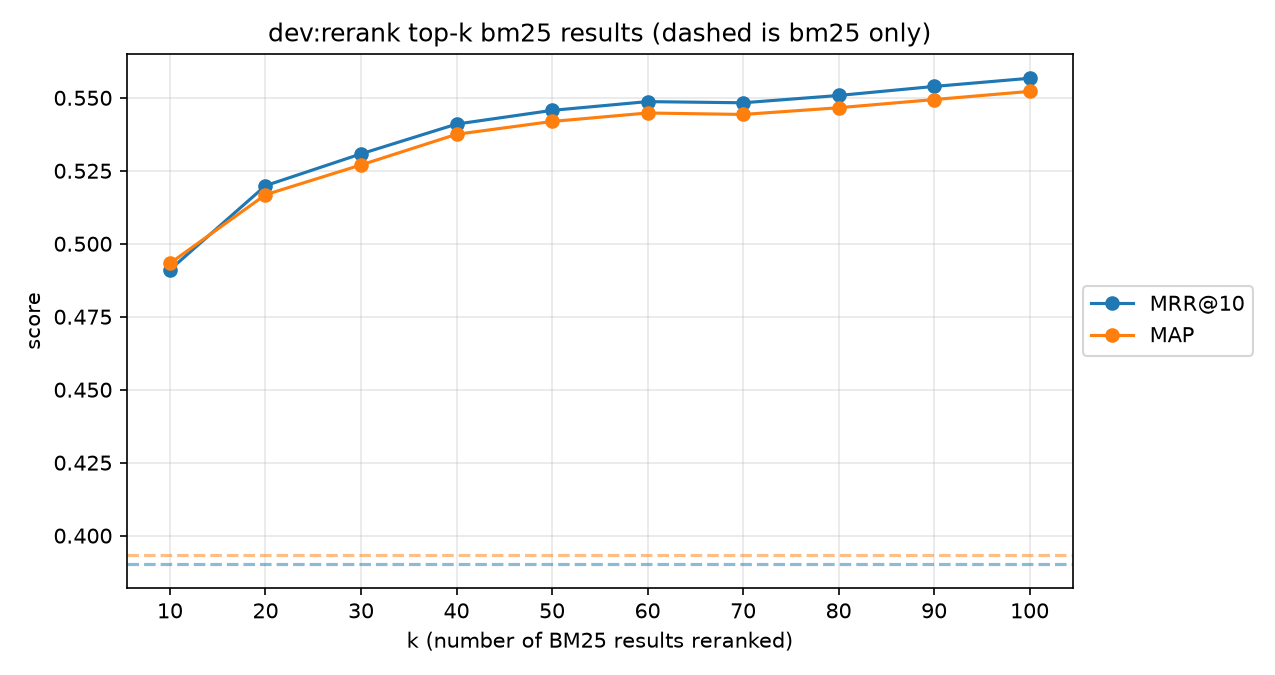
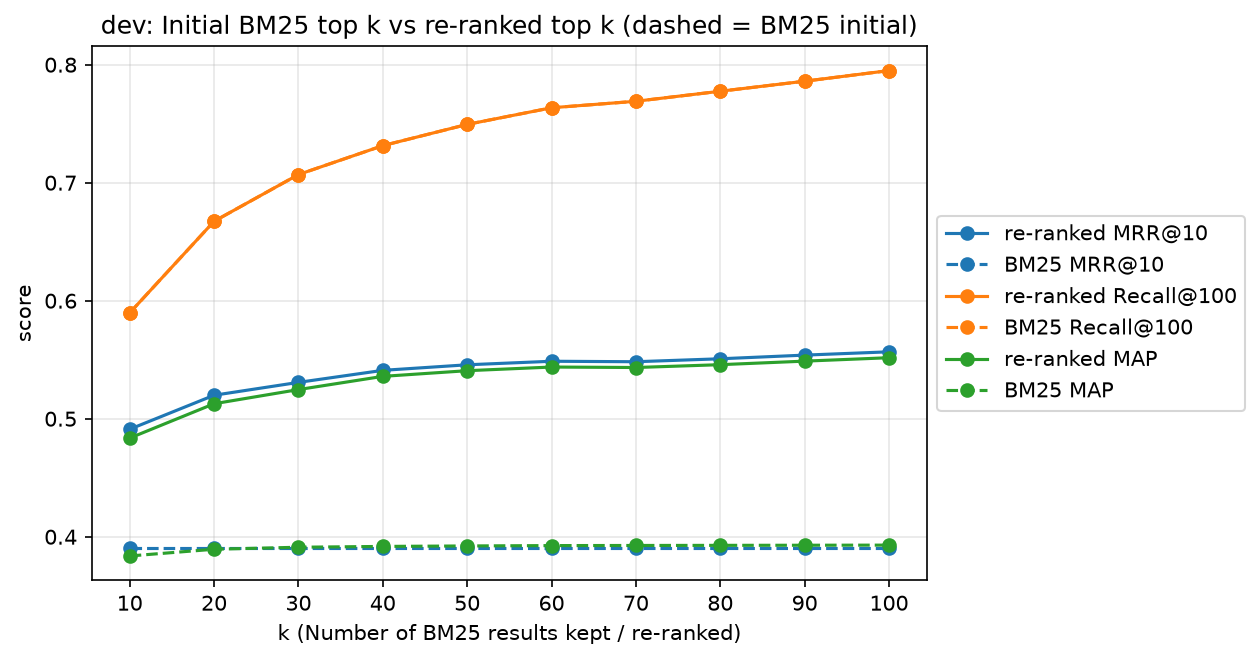
plot eval change

diff --git a/Eval/ploteval.py b/Eval/ploteval.py
@@ -1,14 +1,25 @@
-import subprocess,os,matplotlib.pyplot as plt
+import subprocess, os
+import matplotlib.pyplot as plt
 
 TREC_EVAL = "../trec_eval/trec_eval"
 
-def trecfairy(qrels,run,flags):
-    res=subprocess.run([TREC_EVAL]+flags+[qrels,run],capture_output=True,text=True)
+def trecfairy(qrels, run, flags): #running the trec eval with the flags
+    res = subprocess.run([TREC_EVAL] + flags + [qrels, run], capture_output=True, text=True)
     if not res.stdout.strip():
-        print("eval failed on this run:",run," because ",flags)
+        print("eval failed on this run:", run, " because ", flags)
         print(res.stderr)
         exit(1)
-    return float(res.stdout.split()[-1])
+    return float(res.stdout.split()[-1]) #change to float
+
+def truncate(source, k, destination):
+    count = {} #dictionary from qid to how many lines from that query
+    with open(source) as ref, open(destination, "w") as g:
+        for line in ref: #read 
+            qid = line.split()[0]
+            count[qid] = count.get(qid, 0) + 1
+            if count[qid] <= k:
+                g.write(line)
+    return destination
 
 QRELS = {
     "dl19": "Data/qrels.eval.one.tsv",
@@ -17,40 +28,46 @@ QRELS = {
 }
 
 GRADED = {
-    "MRR@10":   ["-l", "2", "-M", "10", "-m", "recip_rank"],
-    "NDCG@10":  ["-m", "ndcg_cut.10"],
-    "NDCG@100": ["-m", "ndcg_cut.100"],
-    "MAP":      ["-l", "2", "-m", "map"],
+    "MRR@10":     ["-l", "2", "-M", "10", "-m", "recip_rank"],
+    "Recall@100": ["-l", "2", "-m", "recall.100"],
+    "NDCG@10":    ["-m", "ndcg_cut.10"],
+    "NDCG@100":   ["-m", "ndcg_cut.100"],
 }
 BINARY = {
-    "MRR@10": ["-M", "10", "-m", "recip_rank"],
-    "MAP":    ["-m", "map"],
+    "MRR@10":     ["-M", "10", "-m", "recip_rank"],
+    "Recall@100": ["-m", "recall.100"],
+    "MAP":        ["-m", "map"],
 }
 
-KS=list(range(10,101,10))
-os.makedirs("Eval/ploteval",exist_ok=True)
+KS = list(range(10, 101, 10))
+os.makedirs("Eval/ploteval", exist_ok=True)
+os.makedirs("Runs/topk", exist_ok=True)
 
-for name,qrels in QRELS.items():
+for name, qrels in QRELS.items():
     measures = BINARY if name == "dev" else GRADED
-    plt.figure(figsize=(8.5,4.5))
+
+    # make top-k versions of both runs once per k
+    bm25_k, rerank_k = {}, {}
+    for k in KS:
+        bm25_k[k]   = truncate(f"Runs/bm25_{name}.txt", k, f"Runs/topk/bm25{k}_{name}.txt")
+        rerank_k[k] = truncate(f"Runs/ksweep/rerank{k}_{name}.txt", k, f"Runs/topk/rerank{k}_{name}.txt")
+
+    plt.figure(figsize=(8.5, 4.5))
     for metric, flags in measures.items():
-        values=[trecfairy(qrels, f"Runs/ksweep/rerank{k}_{name}.txt",flags) for k in KS]
-        line, = plt.plot(KS, values, marker="o", label=metric)
-        #not reranked
-        base = trecfairy(qrels,f"Runs/bm25_{name}.txt",flags)
-        plt.axhline(base, linestyle="--", color=line.get_color(),alpha=0.5)
+        rr = [trecfairy(qrels, rerank_k[k], flags) for k in KS]
+        bm = [trecfairy(qrels, bm25_k[k], flags) for k in KS]
+        line, = plt.plot(KS, rr, marker="o", label=f"re-ranked {metric}")
+        plt.plot(KS, bm, linestyle="--", marker="o", color=line.get_color(), label=f"BM25 {metric}")
+        print(name, metric, "BM25 by k:", [round(v, 3) for v in bm])
+        print(name, metric, "rerank by k:", [round(v, 3) for v in rr])
 
-        print(name, metric, "BM25:", round(base, 3), "by k:", [round(v, 3) for v in values])
-
-    plt.title(f"{name}:rerank top-k bm25 results (dashed is bm25 only)")
-    plt.xlabel("k (number of BM25 results reranked)")
+    plt.title(f"{name}: Initial BM25 top k vs re-ranked top k (dashed = BM25 initial)")
+    plt.xlabel("k (Number of BM25 results kept / re-ranked)")
     plt.ylabel("score")
     plt.xticks(KS)
     plt.grid(alpha=0.3)
-    plt.legend(loc="center left",bbox_to_anchor=(1, 0.5))
+    plt.legend(loc="center left", bbox_to_anchor=(1, 0.5))
     plt.tight_layout()
-    plt.savefig(f"Eval/ploteval/ksweep_{name}.png",dpi=150)
+    plt.savefig(f"Eval/ploteval/ksweep_{name}.png", dpi=150, bbox_inches="tight")
     plt.close()
     print("saved", f"Eval/ploteval/ksweep_{name}.png")
-
-

diff --git a/BM25/batch.cpp b/BM25/batch.cpp
@@ -23,13 +23,13 @@ int main(int argc, char **argv)
     {
         cerr << "Error with number of arguments. Try again.";
     }
-    string queriesPath = argv[1];
-    string qrelsPath = argv[2];
-    string outPath = argv[3]; // writing to
-    size_t k;
+    string queriesPath = argv[1]; // from queries.eval.tsv
+    string qrelsPath = argv[2];   // qrels.eval.one.tsv
+    string outPath = argv[3];     // writing to bm25_d1l9
+    size_t k;                     // number of results per query
     if (argc > 4)
     {
-        k = stoull(argv[4]);
+        k = stoull(argv[4]); // turning it into a number
     }
     else
     {
@@ -56,18 +56,18 @@ int main(int argc, char **argv)
         istringstream ss(line);
         string qid;
         if (ss >> qid)
-        { // rmb ss reads until first whitespace
-            wanted.insert(qid);
+        {                       // rmb ss reads until first whitespace
+            wanted.insert(qid); // puts all relevant (43) queries into a set so lookups are instant
         }
     }
 
-    cout << "Query ids in qrels: " << wanted.size() << endl;
+    cout << "Query ids in qrels: " << wanted.size() << endl; // check which ones
 
     IndexData data;
 
     loadIndexData(data, "Built files/lexicon.txt", "Built files/doc_length.bin", "Data/new.tsv");
 
-    cout << data.numDocs << endl;
+    cout << data.numDocs << endl; // number of documents in the index
 
     ifstream queries(queriesPath);
     if (!queries)
@@ -86,7 +86,7 @@ int main(int argc, char **argv)
     vector<double> latencies;
     while (getline(queries, line2))
     {
-        if (!line2.empty() && line2.back() == '\r')
+        if (!line2.empty() && line2.back() == '\r') // because i don't wanna drop the last word and this file was made on windows
         {
             line2.pop_back();
         }
@@ -95,13 +95,13 @@ int main(int argc, char **argv)
         {
             continue;
         }
-        string qid = line2.substr(0, tab);
-        string text = line2.substr(tab + 1);
-        if (wanted.find(qid) == wanted.end())
-        { // not a judged query, skip
+        string qid = line2.substr(0, tab);    // what happens before tab
+        string text = line2.substr(tab + 1);  // what happens after the tab
+        if (wanted.find(qid) == wanted.end()) // these are not the droids you are looking for
+        {                                     // not a judged query, skip
             continue;
         }
-        auto t0 = chrono::steady_clock::now();
+        auto t0 = chrono::steady_clock::now(); // timing the search
         vector<ranked> res = search(text, false, data, k);
         auto t1 = chrono::steady_clock::now();
         double ms = chrono::duration<double, milli>(t1 - t0).count();
@@ -109,7 +109,7 @@ int main(int argc, char **argv)
         int rank = 1;
         for (auto &r : res)
         {
-            out << qid << " Q0 " << data.pids[r.second] << " " << rank << " " << r.first << " BM25\n";
+            out << qid << " Q0 " << data.pids[r.second] << " " << rank << " " << r.first << " BM25\n"; // r.second is the internal doc number -> turn into a real pid + r.first is bm25 score
             rank++;
         }
         count++;
@@ -120,9 +120,9 @@ int main(int argc, char **argv)
     sort(latencies.begin(), latencies.end());
     double total = 0;
     for (double ms : latencies)
-        total += ms;
-    cerr << "Average latency " << total / latencies.size() << " milliseconds " << endl;
-    cerr << "P95 Latency " << latencies[latencies.size() * 0.95] << " milliseconds " << endl;
+        total += ms;                                                                          // calculate total time
+    cerr << "Average latency " << total / latencies.size() << " milliseconds " << endl;       // average time per query
+    cerr << "P95 Latency " << latencies[latencies.size() * 0.95] << " milliseconds " << endl; // 95th percentile latency -> catch the slow cases
 
     return 0;
 }

diff --git a/Rerank/rerank.py b/Rerank/rerank.py
@@ -5,7 +5,7 @@ PASSAGE_H5 = "Data/msmarco_passages_embeddings_subset.h5"
 QUERY_H5   = "Data/msmarco_queries_dev_eval_embeddings.h5"
 
 def load_h5_embeddings(file_path,id_key="id",embedding_key="embedding"):
-    print(f"Loading data from {file_path}...")
+    print(f"Loading in data from {file_path}")
     with h5py.File(file_path, 'r') as f:
         ids = np.array(f[id_key]).astype(str) #turn to string
         embeddings = np.array(f[embedding_key]).astype(np.float32)  #turn to float 32 bit decimals
@@ -16,7 +16,7 @@ pids, pemb=load_h5_embeddings(PASSAGE_H5)
 qids, qemb=load_h5_embeddings(QUERY_H5)
 
 pidrows={pids: i for i,pids in enumerate(pids)} #create row numbers so i can find a passage's vector
-qidrows={qids: i for i,qids in enumerate(qids)}
+qidrows={qids: i for i,qids in enumerate(qids)} #id=>row 
 
 print("passage embeddings: ",pemb.shape)
 print("passages in lookup: ", len(pidrows))
@@ -27,7 +27,7 @@ def rerank(name,k,out="Runs"):
     with open(run_file) as f: 
         for line in f: 
             qid, _, pid, rank, score, func=line.split()
-            bm25.setdefault(qid,[]).append(pid) #retrieve key value IF it ecists 
+            bm25.setdefault(qid,[]).append(pid) #retrieve key value IF it ecists, creates new if doesn't
     final = {}
     import time
     latencies = []
@@ -38,7 +38,7 @@ def rerank(name,k,out="Runs"):
         t0=time.perf_counter() #start timer for latency measrement
         query_vector=qemb[qidrows[qid]] #which row holds that query, then qemb shows what it means
         rows=[pidrows[p] for p in top] #passage id to row number in the section we r looking for (top k)
-        scores=pemb[rows] @ query_vector #matrix multiplication for dot product - can't do loop
+        scores=pemb[rows] @ query_vector #matrix multiplication for dot product - can't do loop bc takes TOO LONG
         order=np.argsort(-scores) #sort them in descending order
         reranked=[top[i] for i in order]
         latencies.append((time.perf_counter()-t0)*1000) #convert to ms 
@@ -48,10 +48,10 @@ def rerank(name,k,out="Runs"):
     with open(OUT,"w") as outfile:
         for qid,pids_list in final.items():
             n=len(pids_list)
-            for rank,pid in enumerate(pids_list,start=1):
+            for rank,pid in enumerate(pids_list,start=1):#the best passage is rank 1, second best is rank 2, etc
                 outfile.write(f"{qid} Q0 {pid} {rank} {n-rank+1} RERANK\n") #trec format
     print(f"{name} k={k}: {len(bm25)} queries, "
-        f"avg {np.mean(latencies):.3f} ms, p95 {np.percentile(latencies, 95):.3f} ms")
+        f"avg {np.mean(latencies):.3f} ms, p95 {np.percentile(latencies, 95):.3f} ms") #3 decimal places please
 
 
 for name in ["dl19","dl20","dev"]:
